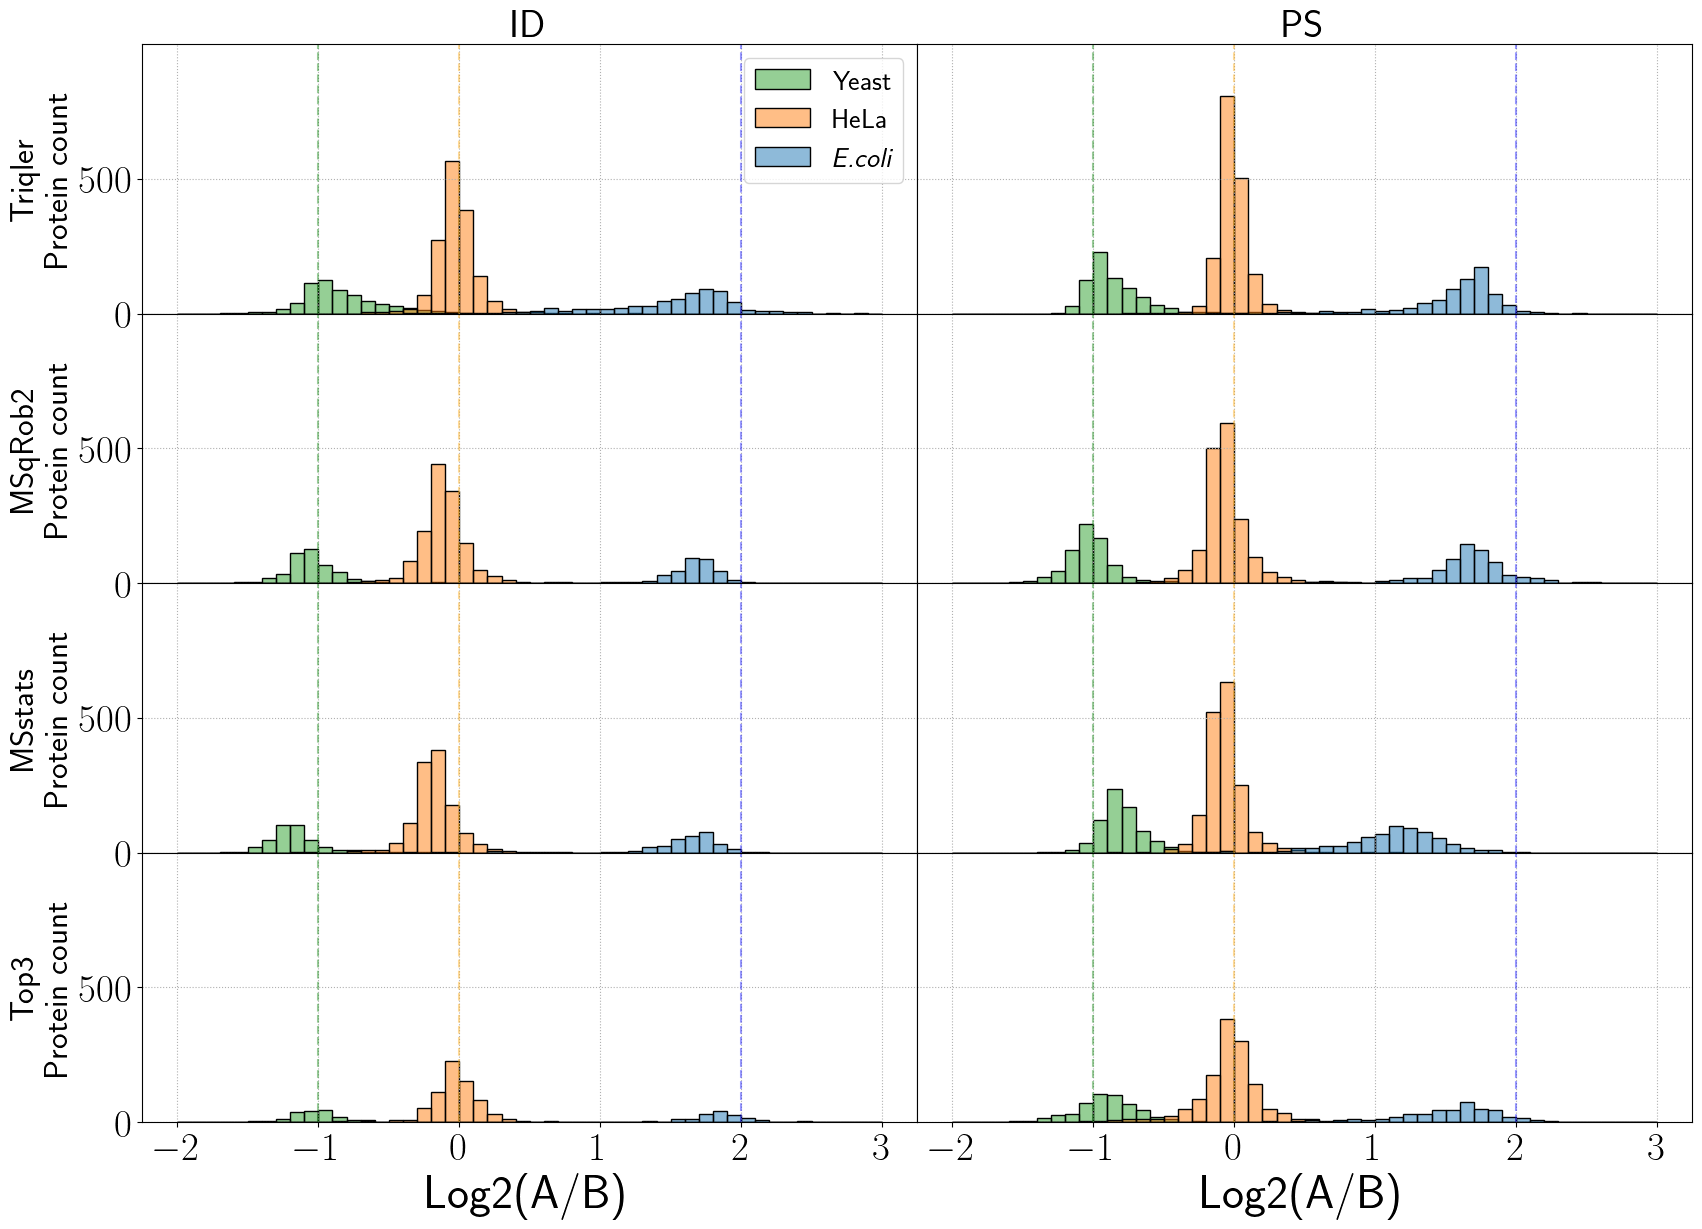
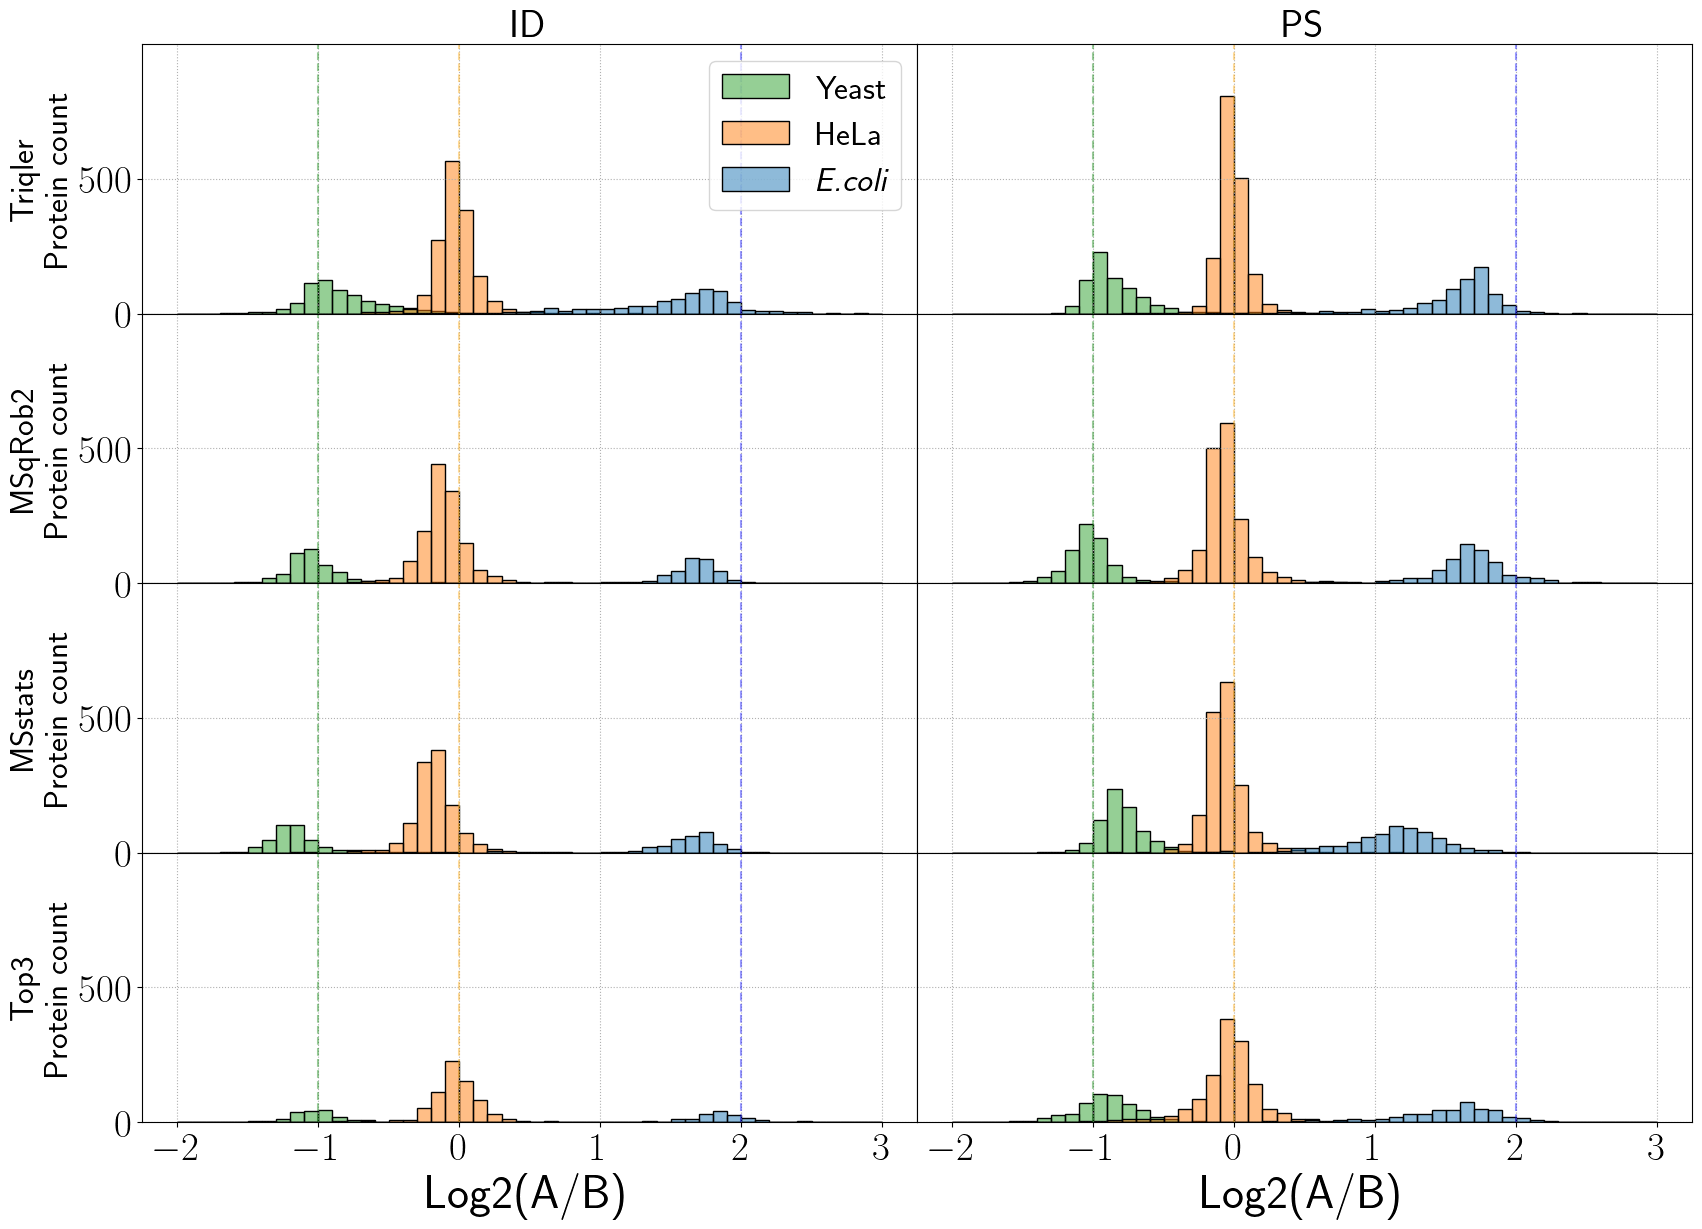
updatep lots

Changed region(s): [[0.4048, 0.0309, 0.5294, 0.1546]]

diff --git a/scripts/clean/plot_scatter.py b/scripts/clean/plot_scatter.py
@@ -42,9 +42,9 @@ def plot_scatterplot(df, output, fdr_threshold = 1.00):
     ax.set_xlabel("Log2(B)", fontsize=34)
     ax.set_ylabel("Log2(A/B)", fontsize=34)
     
-    ax.tick_params(axis='x', which='major', labelsize=32)#labelrotation=90)
-    ax.tick_params(axis='y', which='major', labelsize=32)
-    ax.legend(["Yeast", "HeLa", r"\textit{E.coli}"], prop = {"size":20}) 
+    ax.tick_params(axis='x', which='major', labelsize=38)#labelrotation=90)
+    ax.tick_params(axis='y', which='major', labelsize=38)
+    ax.legend(["Yeast", "HeLa", r"\textit{E.coli}"], prop = {"size":40}) 
     
     #plt.title("std/mu ratio for log-transformed peptide values")
         

diff --git a/scripts/clean/plot_grid_histogram.py b/scripts/clean/plot_grid_histogram.py
@@ -147,7 +147,7 @@ def grid_histogram(output, bins = 50, test = False):
         if i > 0:
             ax.get_legend().remove()
         if i == 0:
-            ax.legend(["Yeast", "HeLa", r"\textit{E.coli}"], prop={"size":20})
+            ax.legend(["Yeast", "HeLa", r"\textit{E.coli}"], prop={"size":24})
         
             
         #if test == True:
